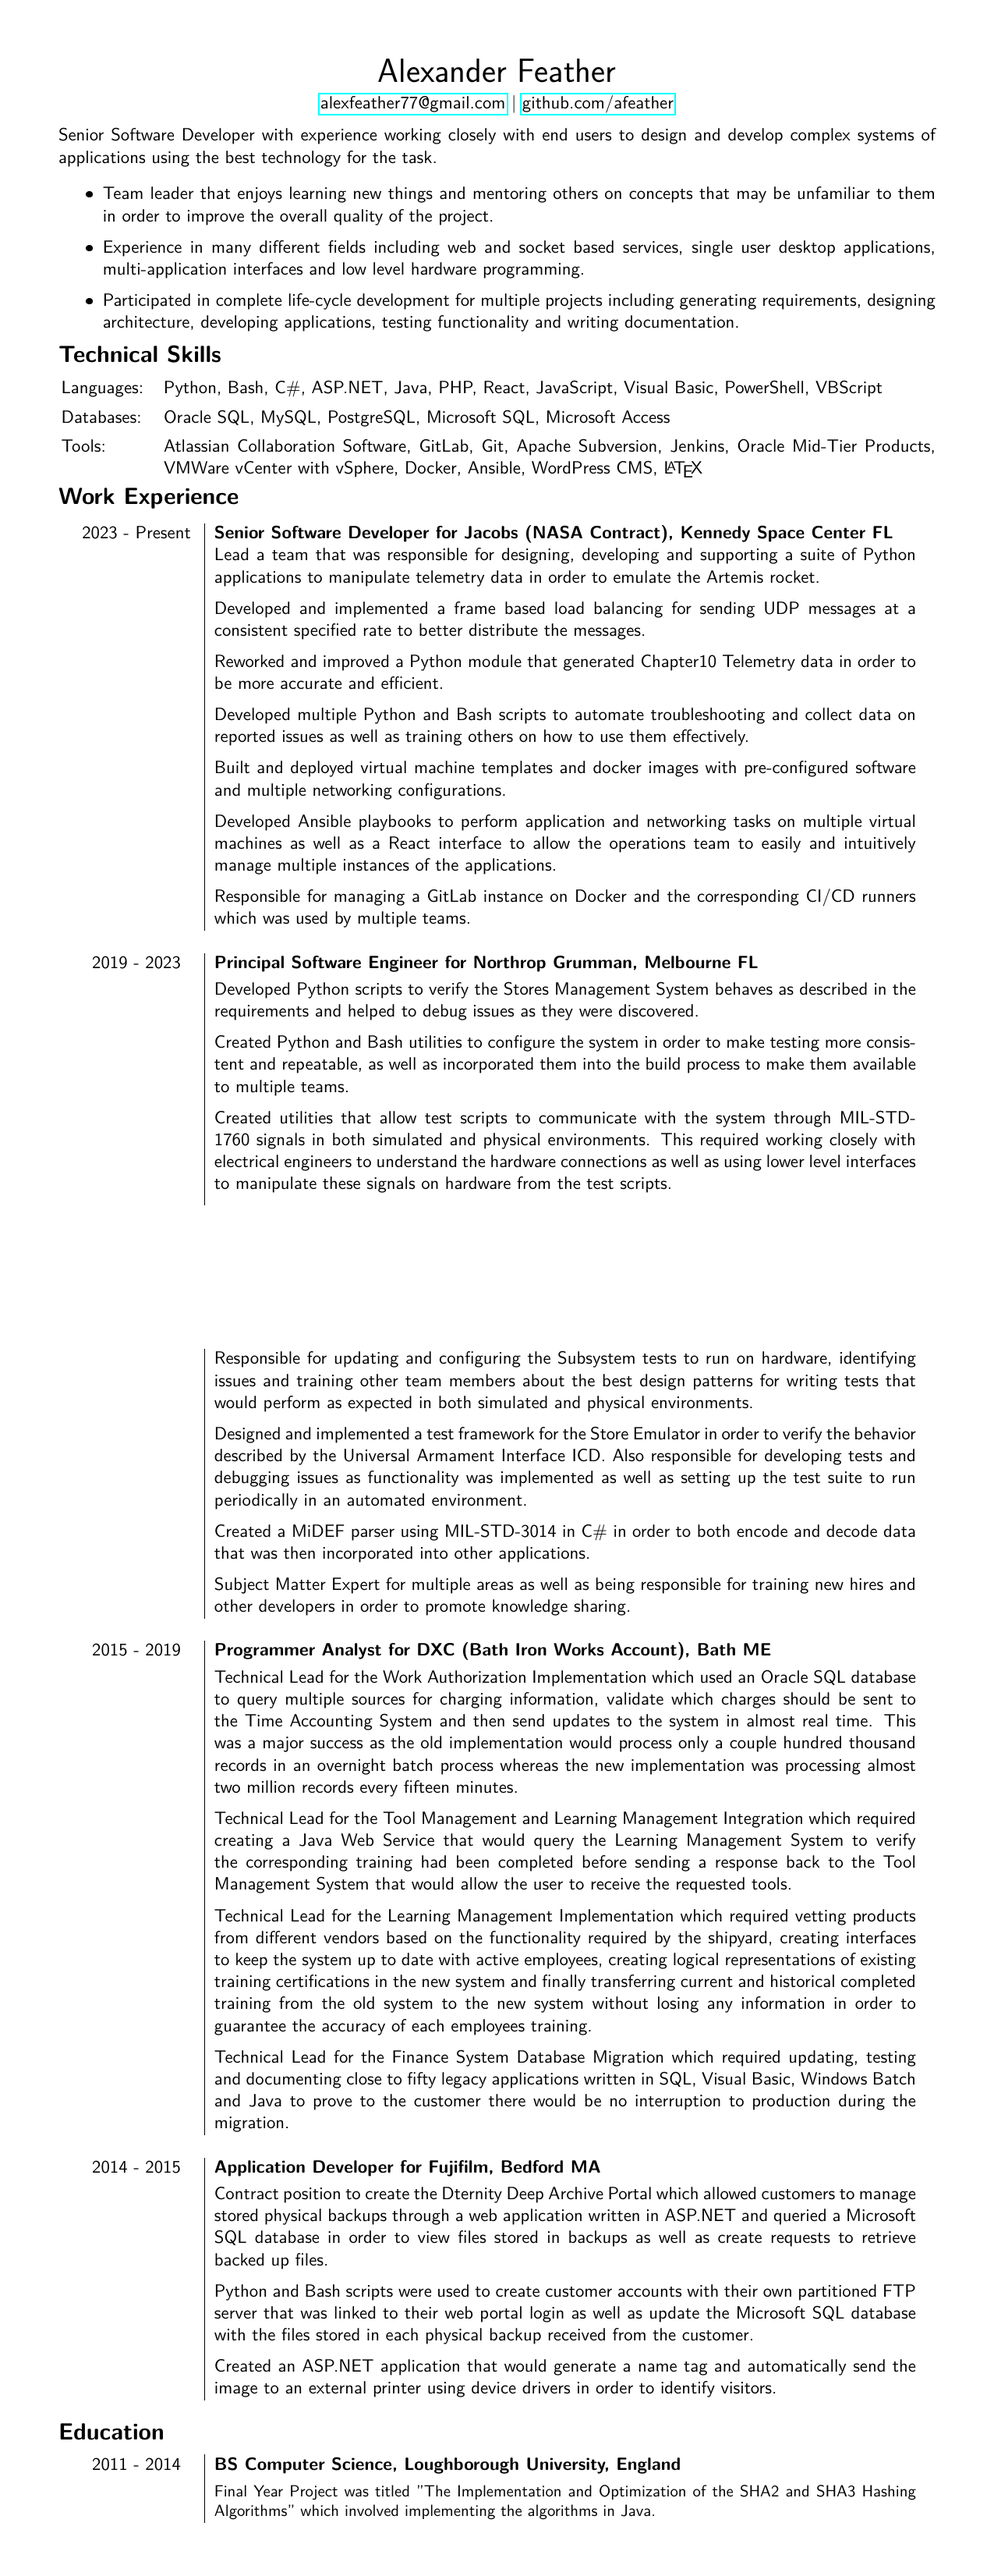
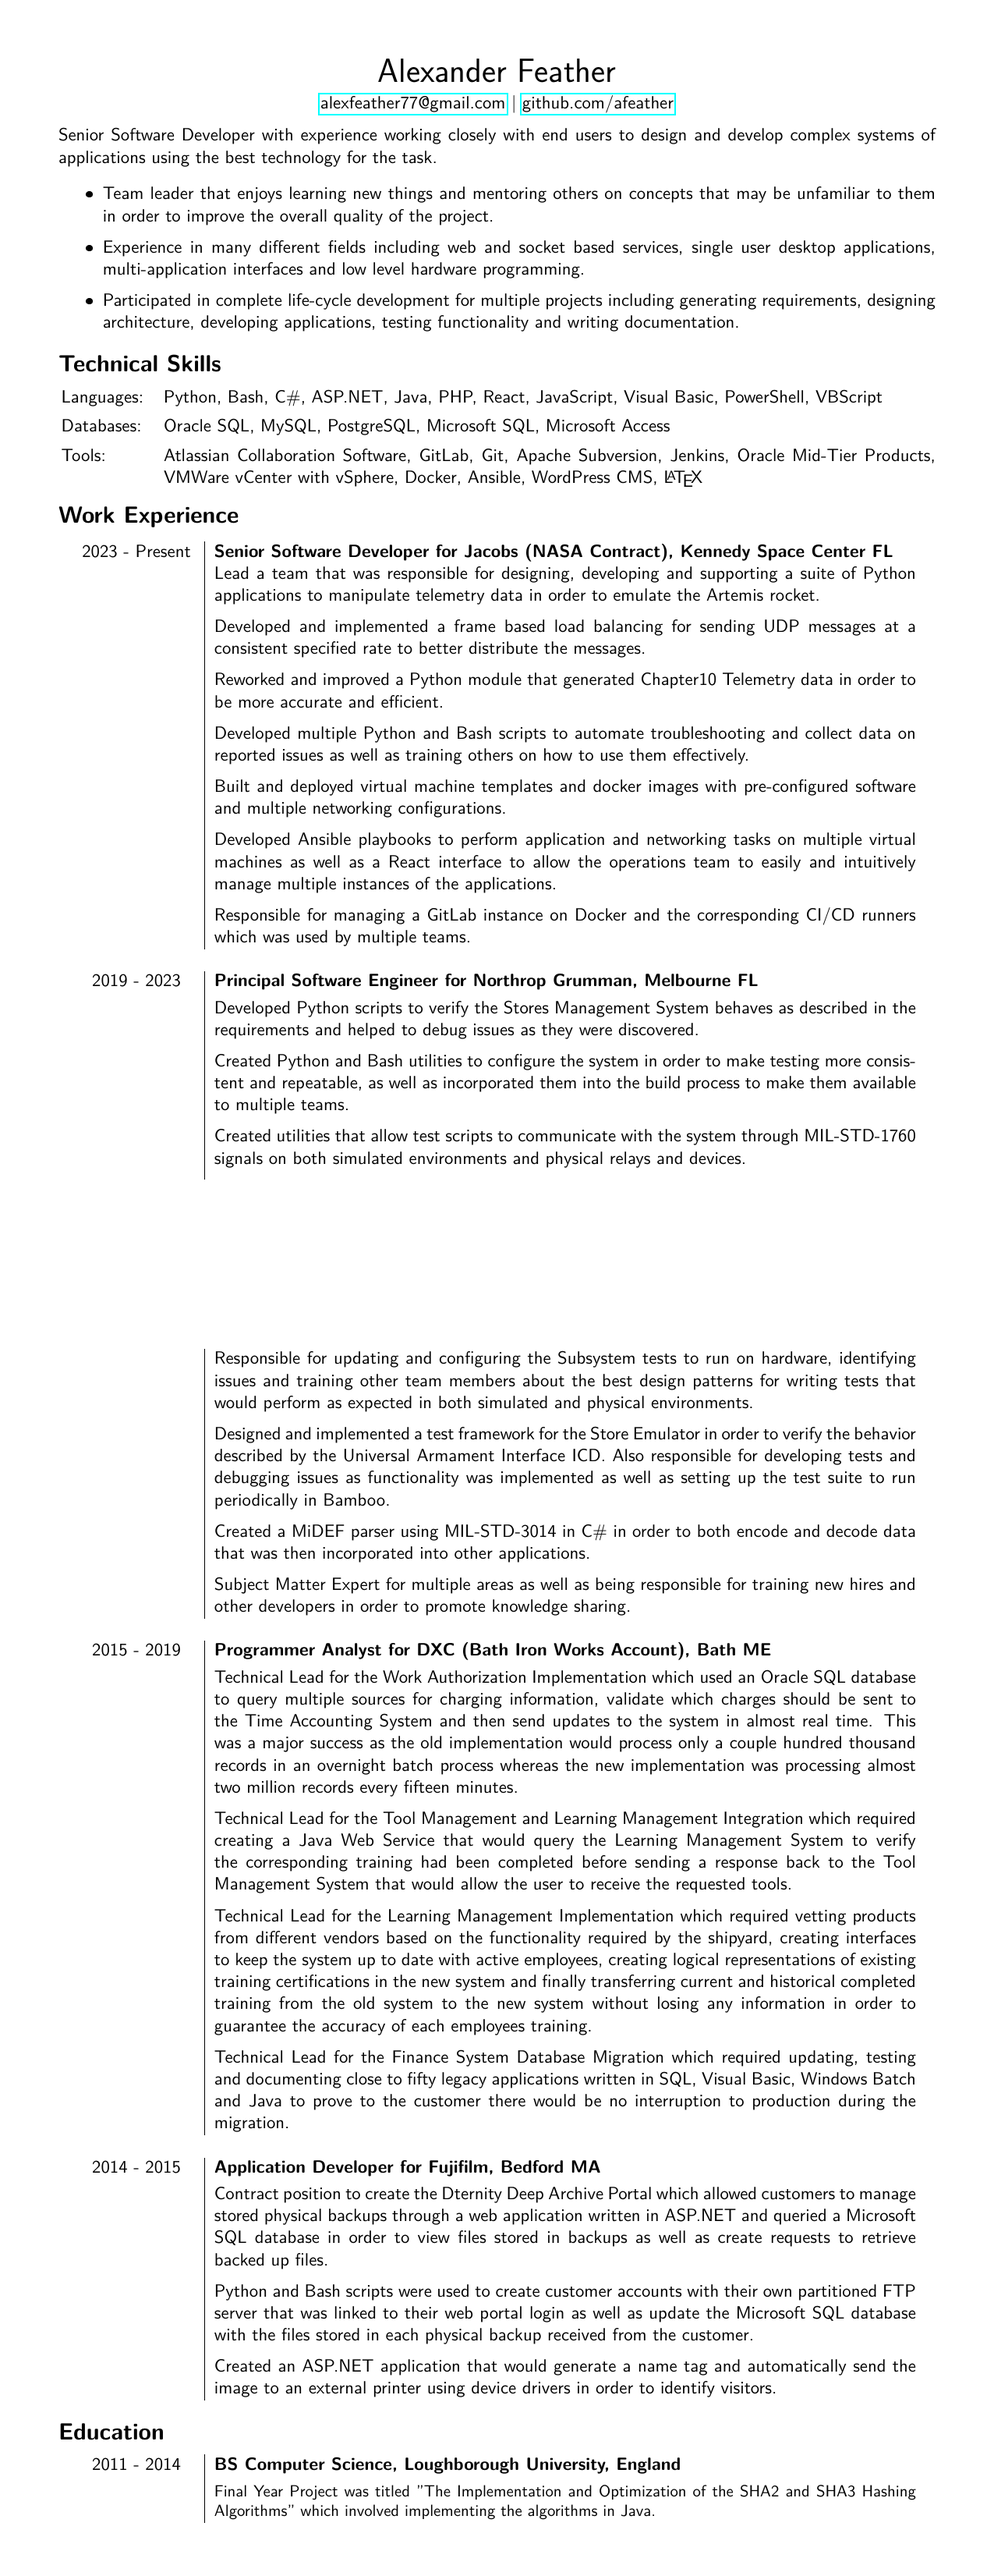
more cleanup

Changed region(s): [[0.0612, 0.1248, 0.9176, 0.4679], [0.8259, 0.1248, 0.8871, 0.156], [0.8871, 0.156, 0.9176, 0.1872]]

diff --git a/Resume.tex b/Resume.tex
@@ -18,7 +18,7 @@ Senior Software Developer with experience working closely with end users to desi
     \item Experience in many different fields including web and socket based services, single user desktop applications, multi-application interfaces and low level hardware programming.
     \item Participated in complete life-cycle development for multiple projects including generating requirements, designing architecture, developing applications, testing functionality and writing documentation. 
 \end{itemize}
-\vspace{-0.8cm}
+\vspace{-0.6cm}
 \section*{\fontfamily{lmss}\selectfont Technical Skills}
 \vspace{-0.2cm}
 \begin{itemize}[itemsep=0cm, leftmargin=0.9in, align=parleft, labelwidth=0.8in]
@@ -26,11 +26,11 @@ Senior Software Developer with experience working closely with end users to desi
     \item[Databases:] Oracle SQL, MySQL, PostgreSQL, Microsoft SQL, Microsoft Access
     \item[Tools:] Atlassian Collaboration Software, GitLab, Git, Apache Subversion, Jenkins, Oracle Mid-Tier Products, VMWare vCenter with vSphere, Docker, Ansible, WordPress CMS, \LaTeX
 \end{itemize}
-\vspace{-1.0cm}
+\vspace{-0.8cm}
 \section*{\fontfamily{lmss}\selectfont Work Experience}
 \vspace{-0.5cm}
 \begin{longtable}{p{1in}|p{6in}}
-    \centering 2023 - Present & \textbf{Senior Software Developer for Jacobs (NASA Contract), Kennedy Space Center FL}\\&
+    \centering 2023 - Present & \textbf{Senior Software Developer for Jacobs (NASA Contract), Kennedy Space Center FL} \\&
         Lead a team that was responsible for designing, developing and supporting a suite of Python applications to manipulate telemetry data in order to emulate the Artemis rocket. \vspace{0.2cm} \\&
         Developed and implemented a frame based load balancing for sending UDP messages at a consistent specified rate to better distribute the messages. \vspace{0.2cm} \\&
         Reworked and improved a Python module that generated Chapter10 Telemetry data in order to be more accurate and efficient. \vspace{0.2cm} \\&
@@ -39,27 +39,26 @@ Senior Software Developer with experience working closely with end users to desi
         Developed Ansible playbooks to perform application and networking tasks on multiple virtual machines as well as a React interface to allow the operations team to easily and intuitively manage multiple instances of the applications. \vspace{0.2cm} \\&
         Responsible for managing a GitLab instance on Docker and the corresponding CI/CD runners which was used by multiple teams. \\
 	\multicolumn{2}{c}{}\\
-    \centering 2019 - 2023 & \textbf{Principal Software Engineer for Northrop Grumman, Melbourne FL}\vspace{0.1cm}\\&
-        Developed Python scripts to verify the Stores Management System behaves as described in the requirements and helped to debug issues as they were discovered.\vspace{0.2cm}\\&
-        Created Python and Bash utilities to configure the system in order to make testing more consistent and repeatable, as well as incorporated them into the build process to make them available to multiple teams.\vspace{0.2cm}\\&
-        Created utilities that allow test scripts to communicate with the system through MIL-STD-1760 signals in both simulated and physical environments.
-        This required working closely with electrical engineers to understand the hardware connections as well as using lower level interfaces to manipulate these signals on hardware from the test scripts.\vspace{0.2cm}\\&
-        Responsible for updating and configuring the Subsystem tests to run on hardware, identifying issues and training other team members about the best design patterns for writing tests that would perform as expected in both simulated and physical environments.\vspace{0.2cm}\\&
-        Designed and implemented a test framework for the Store Emulator in order to verify the behavior described by the Universal Armament Interface ICD. Also responsible for developing tests and debugging issues as functionality was implemented as well as setting up the test suite to run periodically in an automated environment.\vspace{0.2cm}\\&
-        Created a MiDEF parser using MIL-STD-3014 in C\# in order to both encode and decode data that was then incorporated into other applications.\vspace{0.2cm}\\&
-	    Subject Matter Expert for multiple areas as well as being responsible for training new hires and other developers in order to promote knowledge sharing.\\
+    \centering 2019 - 2023 & \textbf{Principal Software Engineer for Northrop Grumman, Melbourne FL} \vspace{0.1cm} \\&
+        Developed Python scripts to verify the Stores Management System behaves as described in the requirements and helped to debug issues as they were discovered. \vspace{0.2cm} \\&
+        Created Python and Bash utilities to configure the system in order to make testing more consistent and repeatable, as well as incorporated them into the build process to make them available to multiple teams. \vspace{0.2cm} \\&
+        Created utilities that allow test scripts to communicate with the system through MIL-STD-1760 signals on both simulated environments and physical relays and devices. \vspace{0.2cm} \\&
+        Responsible for updating and configuring the Subsystem tests to run on hardware, identifying issues and training other team members about the best design patterns for writing tests that would perform as expected in both simulated and physical environments. \vspace{0.2cm} \\&
+        Designed and implemented a test framework for the Store Emulator in order to verify the behavior described by the Universal Armament Interface ICD. Also responsible for developing tests and debugging issues as functionality was implemented as well as setting up the test suite to run periodically in Bamboo. \vspace{0.2cm} \\&
+        Created a MiDEF parser using MIL-STD-3014 in C\# in order to both encode and decode data that was then incorporated into other applications. \vspace{0.2cm} \\&
+	    Subject Matter Expert for multiple areas as well as being responsible for training new hires and other developers in order to promote knowledge sharing. \\
     \multicolumn{2}{c}{}\\
-	\centering 2015 - 2019 & \textbf{Programmer Analyst for DXC (Bath Iron Works Account), Bath ME}\vspace{0.1cm}\\&
+	\centering 2015 - 2019 & \textbf{Programmer Analyst for DXC (Bath Iron Works Account), Bath ME} \vspace{0.1cm} \\&
         Technical Lead for the Work Authorization Implementation which used an Oracle SQL database to query multiple sources for charging information, validate which charges should be sent to the Time Accounting System and then send updates to the system in almost real time.
-        This was a major success as the old implementation would process only a couple hundred thousand records in an overnight batch process whereas the new implementation was processing almost two million records every fifteen minutes.\vspace{0.2cm}\\&
+        This was a major success as the old implementation would process only a couple hundred thousand records in an overnight batch process whereas the new implementation was processing almost two million records every fifteen minutes. \vspace{0.2cm} \\&
         Technical Lead for the Tool Management and Learning Management Integration which required creating a Java Web Service that would query the Learning Management System to verify the corresponding training had been completed before sending a response back to the Tool Management System that would allow the user to receive the requested tools. \vspace{0.2cm} \\&
         Technical Lead for the Learning Management Implementation which required vetting products from different vendors based on the functionality required by the shipyard, creating interfaces to keep the system up to date with active employees, creating logical representations of existing training certifications in the new system and finally transferring current and historical completed training from the old system to the new system without losing any information in order to guarantee the accuracy of each employees training. \vspace{0.2cm} \\&
         Technical Lead for the Finance System Database Migration which required updating, testing and documenting close to fifty legacy applications written in SQL, Visual Basic, Windows Batch and Java to prove to the customer there would be no interruption to production during the migration. \\
-	\multicolumn{2}{c}{}\\
-	\centering 2014 - 2015 & \textbf{Application Developer for Fujifilm, Bedford MA}\vspace{0.1cm}\\&
-	    Contract position to create the Dternity Deep Archive Portal which allowed customers to manage stored physical backups through a web application written in ASP.NET and queried a Microsoft SQL database in order to view files stored in backups as well as create requests to retrieve backed up files.\vspace{0.2cm}\\&
-        Python and Bash scripts were used to create customer accounts with their own partitioned FTP server that was linked to their web portal login as well as update the Microsoft SQL database with the files stored in each physical backup received from the customer.\vspace{0.2cm}\\&
-        Created an ASP.NET application that would generate a name tag and automatically send the image to an external printer using device drivers in order to identify visitors.\\
+	\multicolumn{2}{c}{} \\
+	\centering 2014 - 2015 & \textbf{Application Developer for Fujifilm, Bedford MA} \vspace{0.1cm} \\&
+	    Contract position to create the Dternity Deep Archive Portal which allowed customers to manage stored physical backups through a web application written in ASP.NET and queried a Microsoft SQL database in order to view files stored in backups as well as create requests to retrieve backed up files. \vspace{0.2cm} \\&
+        Python and Bash scripts were used to create customer accounts with their own partitioned FTP server that was linked to their web portal login as well as update the Microsoft SQL database with the files stored in each physical backup received from the customer. \vspace{0.2cm} \\&
+        Created an ASP.NET application that would generate a name tag and automatically send the image to an external printer using device drivers in order to identify visitors. \\
 \end{longtable}
 \vspace{-0.7cm}
 \section*{\fontfamily{lmss}\selectfont Education}
